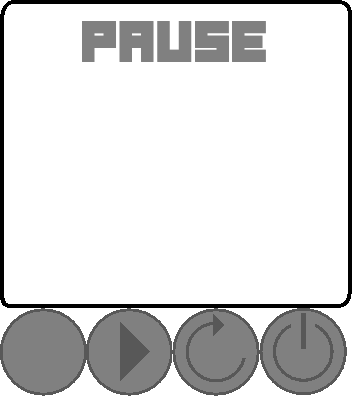
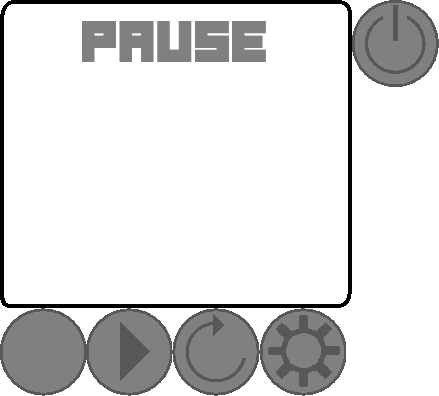
complete the settings menu texure work

diff --git a/src/GameApp.cpp b/src/GameApp.cpp
@@ -8665,32 +8665,8 @@ int RunGameApp(int argc, char** argv) {
             }
             const auto settingsDraw = pauseButtonAnimations.drawRect(3, pauseBtnSettings, pauseSelection == 3, win, screenW, screenH);
             auto buttonFrame = pauseFrames.find("buttonbg");
-            if (buttonFrame == pauseFrames.end()) buttonFrame = pauseFrames.find("buttonbg.png");
-            const auto gearFrame = pauseSettingsFrames.find("settings_btn_logo");
-            if (pauseTex && buttonFrame != pauseFrames.end()) {
-                SDL_SetTextureAlphaMod(pauseTex, pauseButtonAlpha);
-                renderFrame(ren, pauseTex, buttonFrame->second, settingsDraw);
-                SDL_SetTextureAlphaMod(pauseTex, 255);
-            } else {
-                SDL_SetRenderDrawColor(ren, 75, 85, 110, pauseButtonAlpha);
-                SDL_RenderFillRect(ren, &settingsDraw);
-            }
-            if (pauseSettingsTexture && gearFrame != pauseSettingsFrames.end()) {
-                SDL_SetTextureAlphaMod(pauseSettingsTexture.get(), pauseButtonAlpha);
-                const SDL_Rect gear{settingsDraw.x + (int)std::lround(settingsDraw.w * 0.18f),
-                    settingsDraw.y + (int)std::lround(settingsDraw.h * 0.14f),
-                    (int)std::lround(settingsDraw.w * 0.64f), (int)std::lround(settingsDraw.h * 0.64f)};
-                renderFrame(ren, pauseSettingsTexture.get(), gearFrame->second, gear);
-                SDL_SetTextureAlphaMod(pauseSettingsTexture.get(), 255);
-            } else {
-                DrawTextColored(ren, settingsDraw.x + (settingsDraw.w - MeasureTextWidth(2, "S")) / 2,
-                    settingsDraw.y + (settingsDraw.h - 20) / 2, 2, "S", SDL_Color{255,255,255,pauseButtonAlpha});
-            }
-            if (pauseSelection == 3) {
-                SDL_SetRenderDrawColor(ren, 180, 200, 230, pauseButtonAlpha);
-                SDL_RenderRect(ren, &settingsDraw);
-            }
-        }
+            if (buttonFrame == pauseFrames.end()) buttonFrame = pauseFrames.find("settingbtn.png");
+            const auto gearFrame = pauseSettingsFrames.find("settings_btn_logo");        }
         if (levelCompleteUiLerp > 0.001f) {
             const int centerY = screenH / 2;
             auto completeSlideInXForY = [&](int y) -> int {
